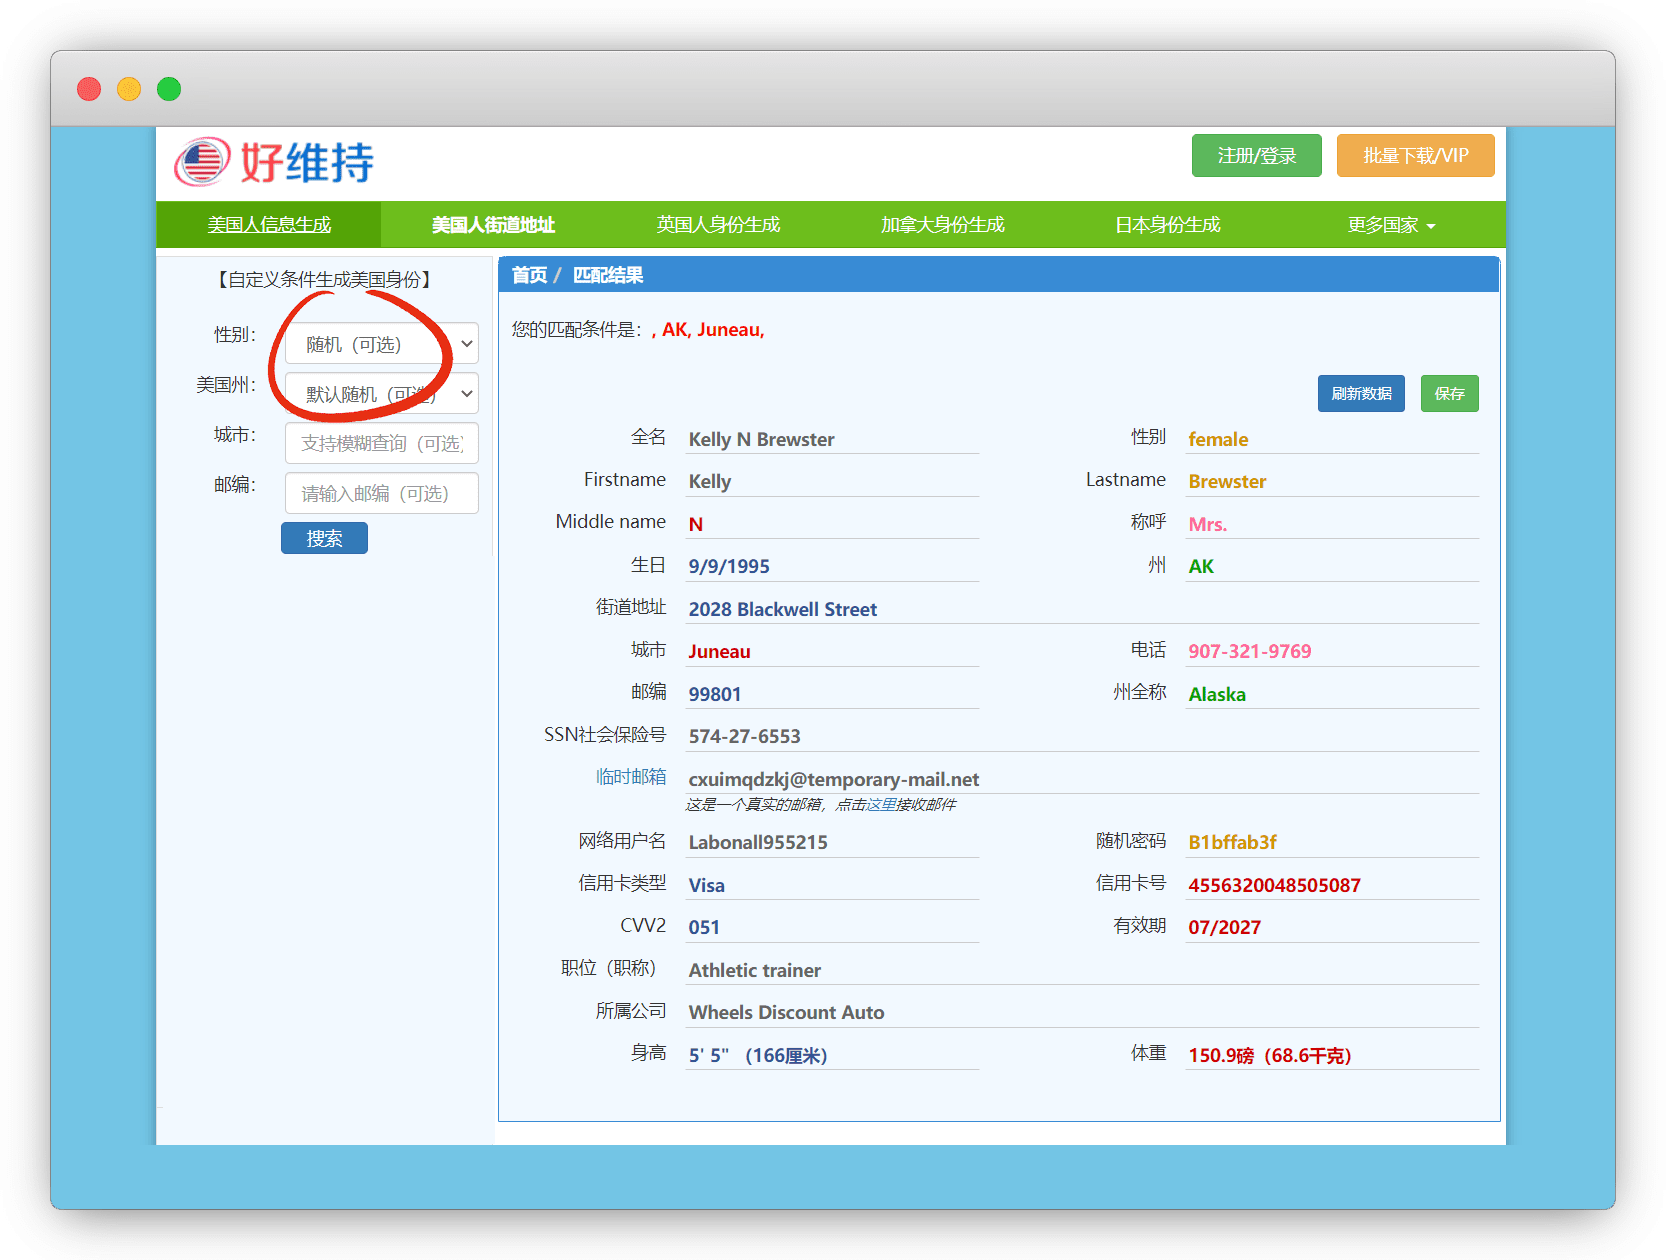
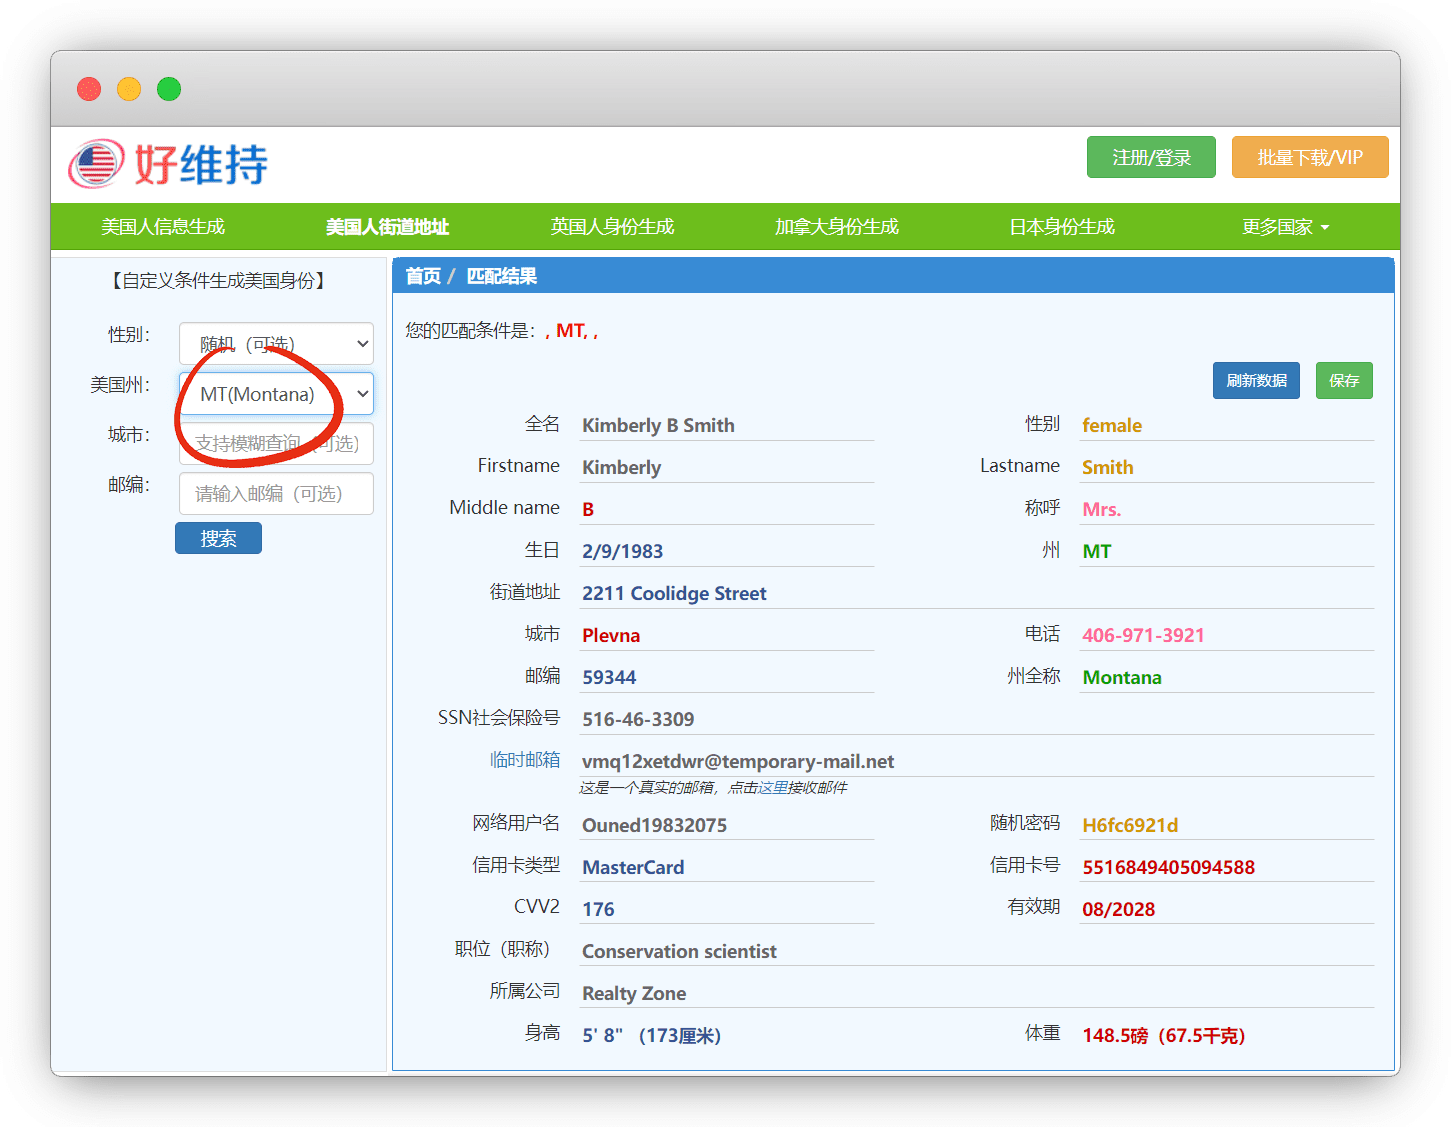
update

diff --git a/docs/iPhone/Apple_ID.md b/docs/iPhone/Apple_ID.md
@@ -76,39 +76,42 @@
 ![](/appleid/appleid-09.png)
 
 
-好维特官网：[http://www.haoweichi.com/](http://www.haoweichi.com/)
+好维特官网：http://www.haoweichi.com/
+
+::: details 其他备用信息生成
+
+* 地址生成大全：http://www.shenfendaquan.com/
+
+* FakeNameGenerator：https://www.fakenamegenerator.com/
+:::
+
 
 ![](/appleid/appleid-10.png)
 
 
-::: details 备用信息生成
 
-* 地址生成大全：[http://www.shenfendaquan.com/](http://www.shenfendaquan.com/)
 
-* FakeNameGenerator：[https://www.fakenamegenerator.com/](https://www.fakenamegenerator.com/)
+
+这里很重要！！为了方便后续自己充值购买应用不扣税，选免税州！
+
+
+::: details 免税州税率参考
+
+免税州及城市参考：https://www.googlevoice.cn/us-5-tax-free-state/
+
+* 阿拉斯加州（Alaska），购物消费税：1.76%
+
+* 特拉华州（Delaware），购物消费税：0%
+
+* 蒙大拿州（Montana），购物消费税：0%
+
+* 新罕布什尔州（New Hampshire），购物消费税：0%，参观消费税：8%
+
+* 俄勒冈州（Oregon），购物消费税：0%，参观消费税：5%
 :::
 
 
-
-为了方便后续自己充值使用，免税州购买应用不扣税
-
-
-::: details 免税州
-* 阿拉斯加州（Alaska）
-
-* 特拉华州（Delaware）
-
-* 蒙大拿州（Montana）
-
-* 新罕布什尔州（New Hampshire）
-
-* 俄勒冈州（Oregon）
-:::
-
-免税州及城市参考：[https://www.googlevoice.cn/us-5-tax-free-state/](https://www.googlevoice.cn/us-5-tax-free-state/)
-
-
-参考资料，我用好维特，生成一个阿拉斯加，朱诺的地址
+参考资料，我用好维特，生成一个`蒙大拿州`的地址
 
 ![](/appleid/appleid-11.png)
 
@@ -187,15 +190,19 @@ OK了，现在在应用商店，下载你想要的APP即可
 
 购买完成后，打开应用商店 - 头像 - Redeem Gift Card - 底部输入兑换码
 
+
+
+![](/appleid/appleid-22.png)
+
+
+![](/appleid/appleid-23.png)
+
 ::: details 提示报错
 若提示：Error:This code has already been redeemed
 
 兑换码已经被用过了，找店家换
 :::
 
-![](/appleid/appleid-22.png)
-
-![](/appleid/appleid-23.png)
 
 
 
@@ -209,7 +216,7 @@ OK了，现在在应用商店，下载你想要的APP即可
 
 #### 2.填写信息页，付款方式没有无
 
-可以先去手机苹果商店登录一下账号，然后APP上选择付款方式无
+可以先去手机苹果商店登录一下账号，然后APP上选择付款方式`无`
 
 
 #### 3.登入苹果商店，提示没有网络
